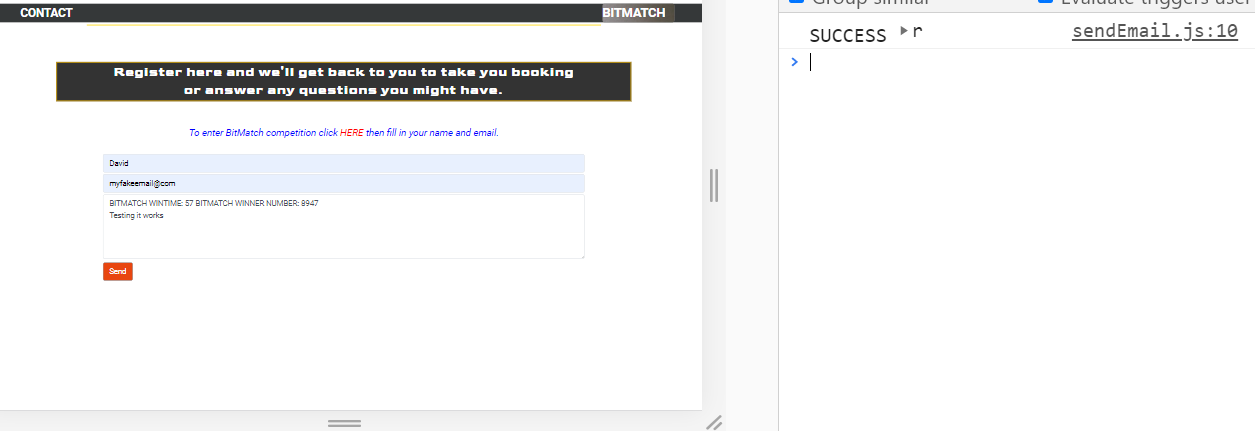
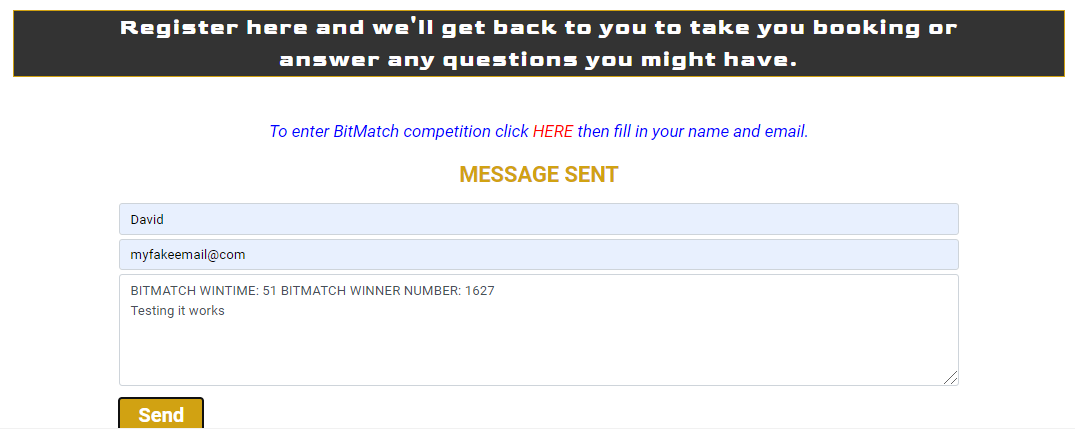
Restyled contact page, tested main site js files

diff --git a/assets/js/sendEmail.js b/assets/js/sendEmail.js
@@ -1,4 +1,4 @@
-/*--email.js with success and error resend function--*/
+/*--sendMail function to send email using email.js with success and error resend function--*/
 
 function sendMail(contactForm) {
 
@@ -9,13 +9,13 @@ function sendMail(contactForm) {
     }).then(
         function(response) {
             console.log("SUCCESS", response);
-            datadiv = document.getElementById("success");
-            datadiv.innerHTML = "Message sent";
+            let datadiv = document.getElementById("success");
+            datadiv.innerHTML = "MESSAGE SENT";
         },
         function(error) {
             console.log("FAILED", error);
-            datadiv = document.getElementById("success");
-            datadiv.innerHTML = "Error - Please Resend";
+            let datadiv = document.getElementById("success");
+            datadiv.innerHTML = "ERROR - PLEASE RESEND";
         }
     );
     return false;  
@@ -26,7 +26,7 @@ function sendMail(contactForm) {
 document.getElementById("conbitnum").addEventListener("click", fetchbitnum);
 
 function fetchbitnum() {
-    document.getElementById("message").innerHTML = `BITMATCH WINTIME: ${localStorage.getItem('wintime')} BITMATCH WINNER NUMBER: ${localStorage.getItem('winnum')}`
+    document.getElementById("message").innerHTML = `BITMATCH WINTIME: ${localStorage.getItem('wintime')} BITMATCH WINNER NUMBER: ${localStorage.getItem('winnum')}`;
     
 }
 

diff --git a/contact.html b/contact.html
@@ -170,6 +170,7 @@
             </div>
          </div>
          <!--topper-section-->
+
          <!--emailjs-section--> 
          <div class="row">
             <div class="col">
@@ -216,7 +217,8 @@
                            ></textarea>
                         <button
                            type="submit"
-                           class="btn btn-secondary center-block my-1"
+                           id="email-button"
+                           class="center-vandh"
                            >
                         Send
                         </button>

diff --git a/assets/css/style.css b/assets/css/style.css
@@ -1006,9 +1006,21 @@ div #map1 {
 	display: block;
 	margin-left: auto;
 	margin-right: auto;
-	font-size: 20px;
-	color: #fafafa;
-	background-color: #e84610;
+	font-size: 26px;
+    font-weight: bold;
+	color: rgba(209, 161, 16, 0.993);
+}
+
+#email-button{
+    height: 40px;
+	width: 100px;
+	background-color: rgba(209, 161, 16, 0.993);
+	color: #ffffff;
+	border-color: white;
+	border-width: 0;
+	font-size: 24px;
+	font-weight: bold;
+	border-radius: 5px;
 }
 
 #messagebox {

diff --git a/README.md b/README.md
@@ -186,11 +186,13 @@ W3C Markup Validator, W3C CSS Validator and JSHint were used to validate every p
 
 - [JSHint](https://jshint.com/) - [Results](https://github.com/johnston9/ms2-apis)
   - JSHint was used with "New JavaScript features (ES6)" and "jQuery" checked in the configuration menu.
-    All files were clear of errors and warnings. On the maps.js file for the Map Page it gave a "two undefined variables" note
-    for "google" and "MarkerClusterer" but these are part of Google Maps own functionality. It also gave a "two unused variables" note
+    All files were clear of errors and warnings.
+    
+  - For the maps.js file for the Map Page it gave a "two undefined variables" note
+    for "google" and "MarkerClusterer" but these are part of Google Maps own functionality. It also gave a "Two unused variables" note
     "initMap", which is called from the html page script and "markerCluster" which is used so as not to give a "Do not use 'new' for side effects" warning.
 
-
+ -  For the sendEmail.js file for the Contactp Page it gave a "One undefined variable" for "emailjs" and a "One unused variable" for "sendMail" which is called on the html page.
 
 
 ### Testing User Stories from User Experience (UX) Section
